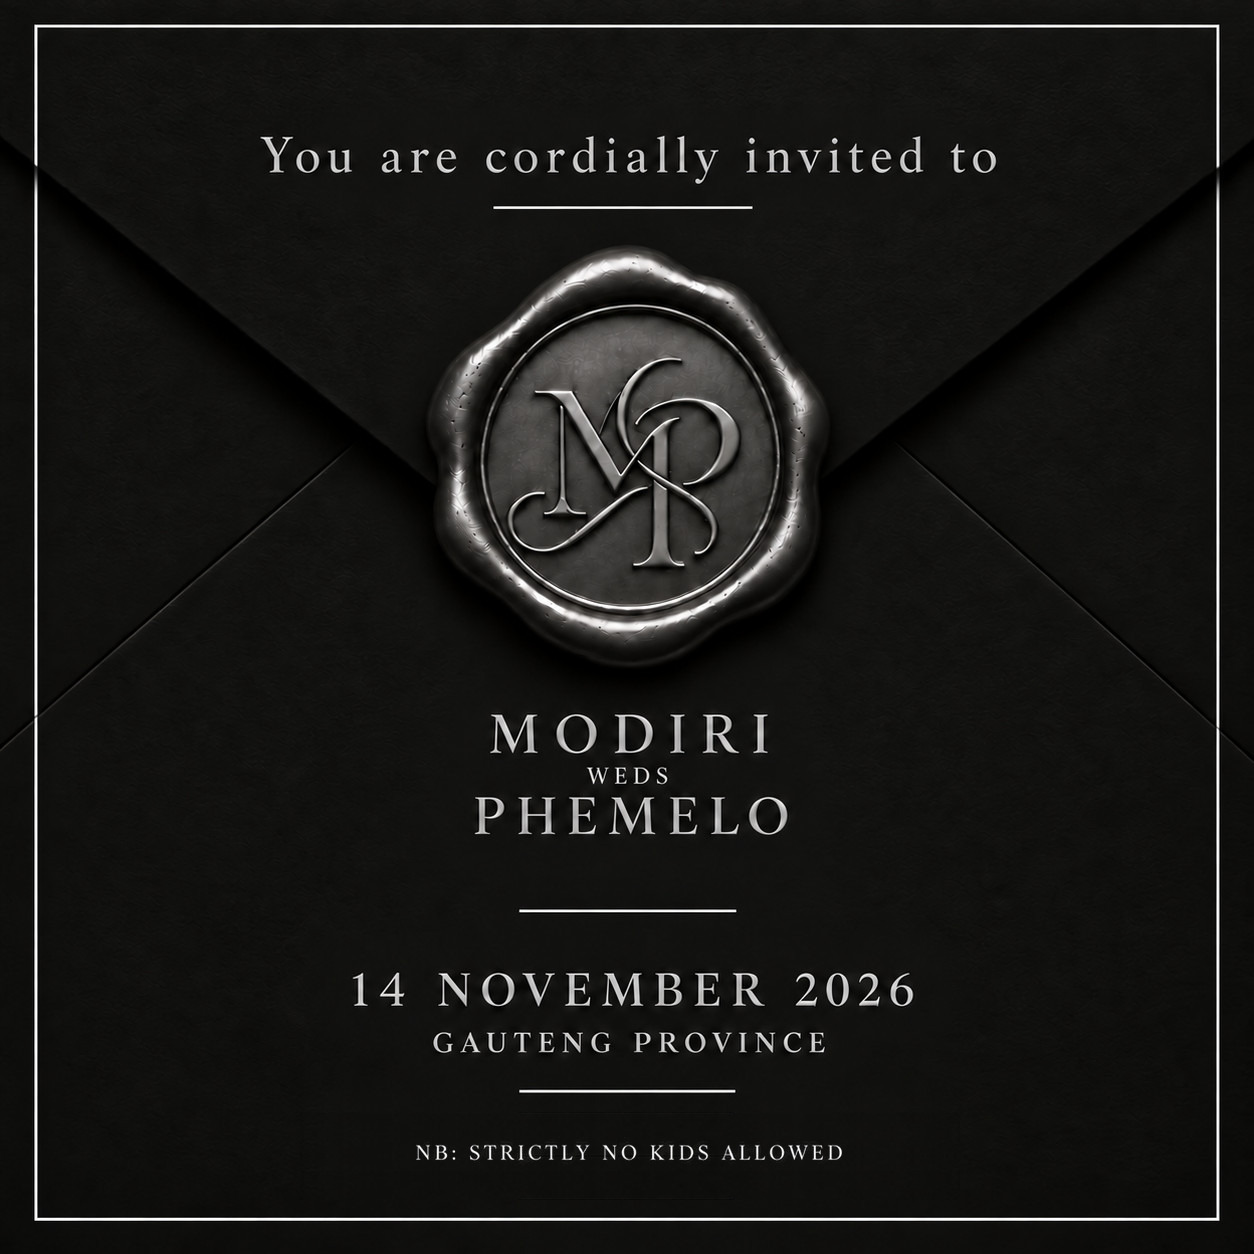
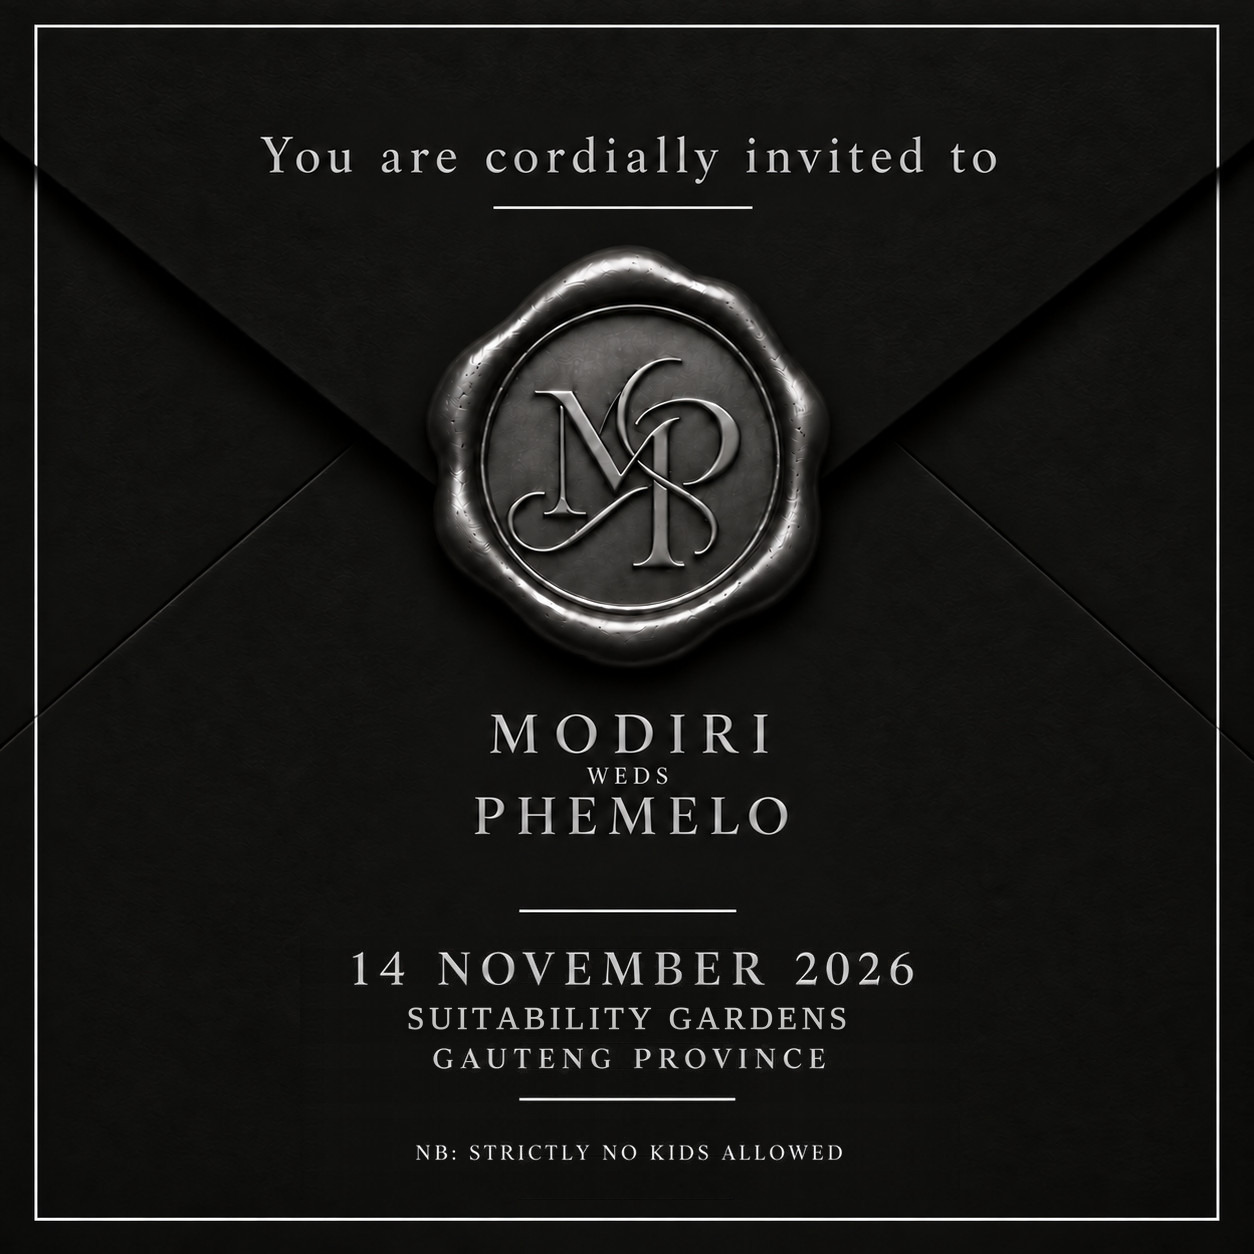
Invitation artwork: add Suitability Gardens to the hero
- New line between the date and Gauteng Province in the matching lettering; date, province and rule re-spaced
- Alt text and social description name the venue

Claude-Session: https://claude.ai/code/session_01T6nZhw1faxdS53h9x7GW21

Changed region(s): [[0.2799, 0.7464, 0.7464, 0.9019]]

diff --git a/index.html b/index.html
@@ -8,7 +8,7 @@
 <meta name="theme-color" content="#0A0A0A">
 <link rel="icon" type="image/png" href="favicon.png">
 <meta property="og:title" content="Modiri &amp; Phemelo">
-<meta property="og:description" content="You are cordially invited to the wedding of Modiri and Phemelo. 14 November 2026, Gauteng.">
+<meta property="og:description" content="You are cordially invited to the wedding of Modiri and Phemelo. 14 November 2026, Suitability Gardens, Gauteng.">
 <meta property="og:image" content="invitation.jpg">
 <style>html{color-scheme:dark;background:#020202}img{max-width:100%}</style>
 </head>
@@ -298,7 +298,7 @@ footer .credit b { font-weight: 600; color: var(--ink); }
   <!-- Hero: the couple's artwork as supplied -->
   <section class="sheet hero" aria-label="Invitation">
     <img src="invitation.jpg" width="1254" height="1254"
-         alt="You are cordially invited to Modiri weds Phemelo, 14 November 2026, Gauteng Province. Strictly no kids allowed.">
+         alt="You are cordially invited to Modiri weds Phemelo, 14 November 2026, Suitability Gardens, Gauteng Province. Strictly no kids allowed.">
     <div class="hero-foot">
       <p class="kicker">SATURDAY · 14 NOVEMBER 2026</p>
       <div class="countdown" id="countdown" aria-live="off">
